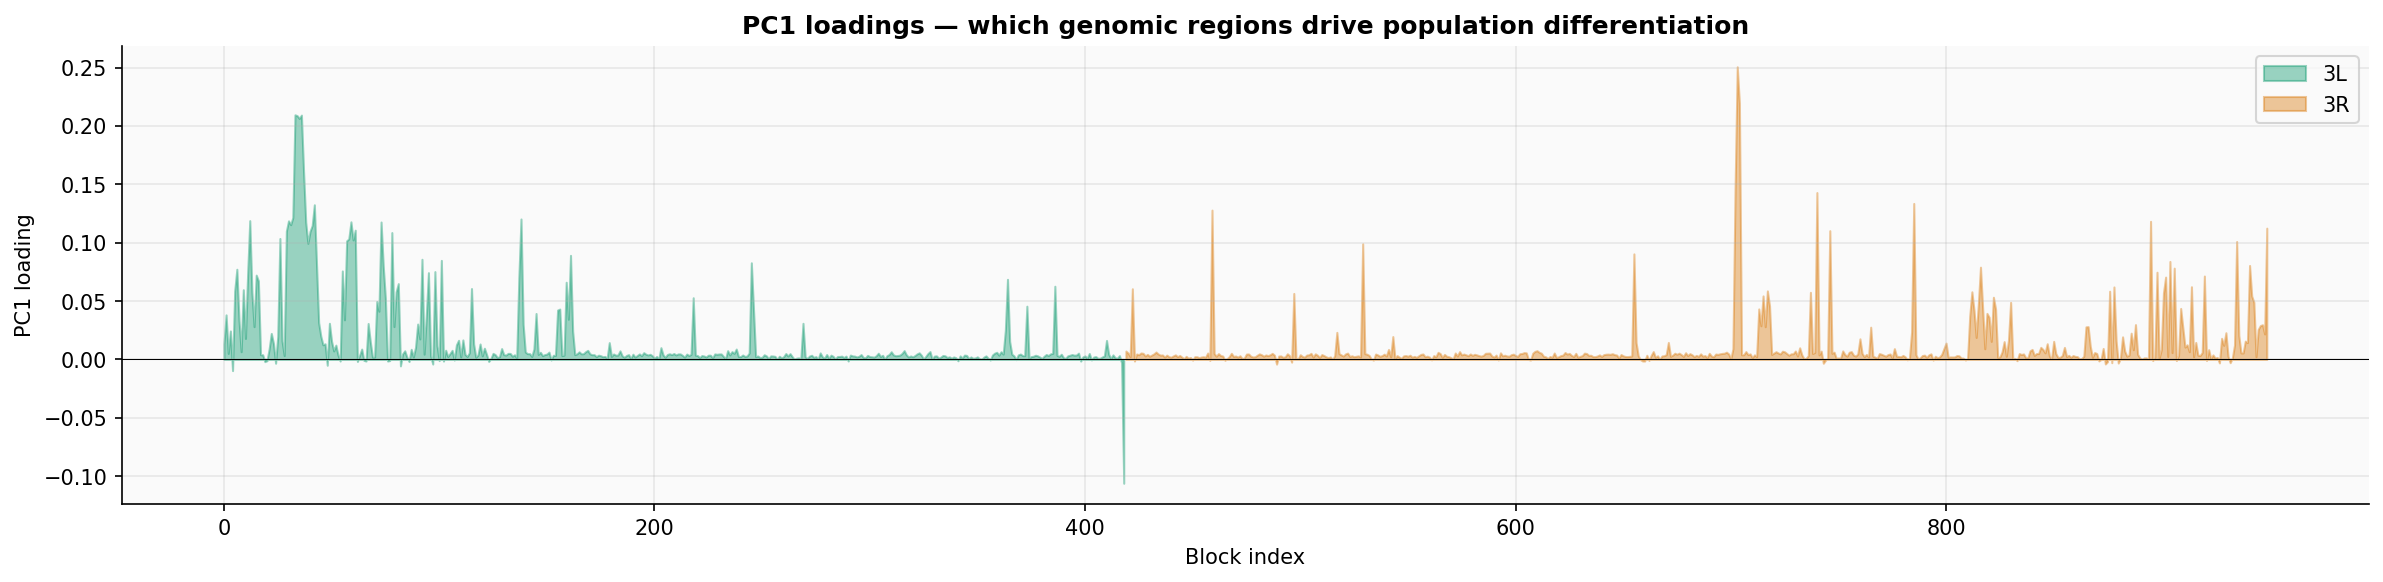
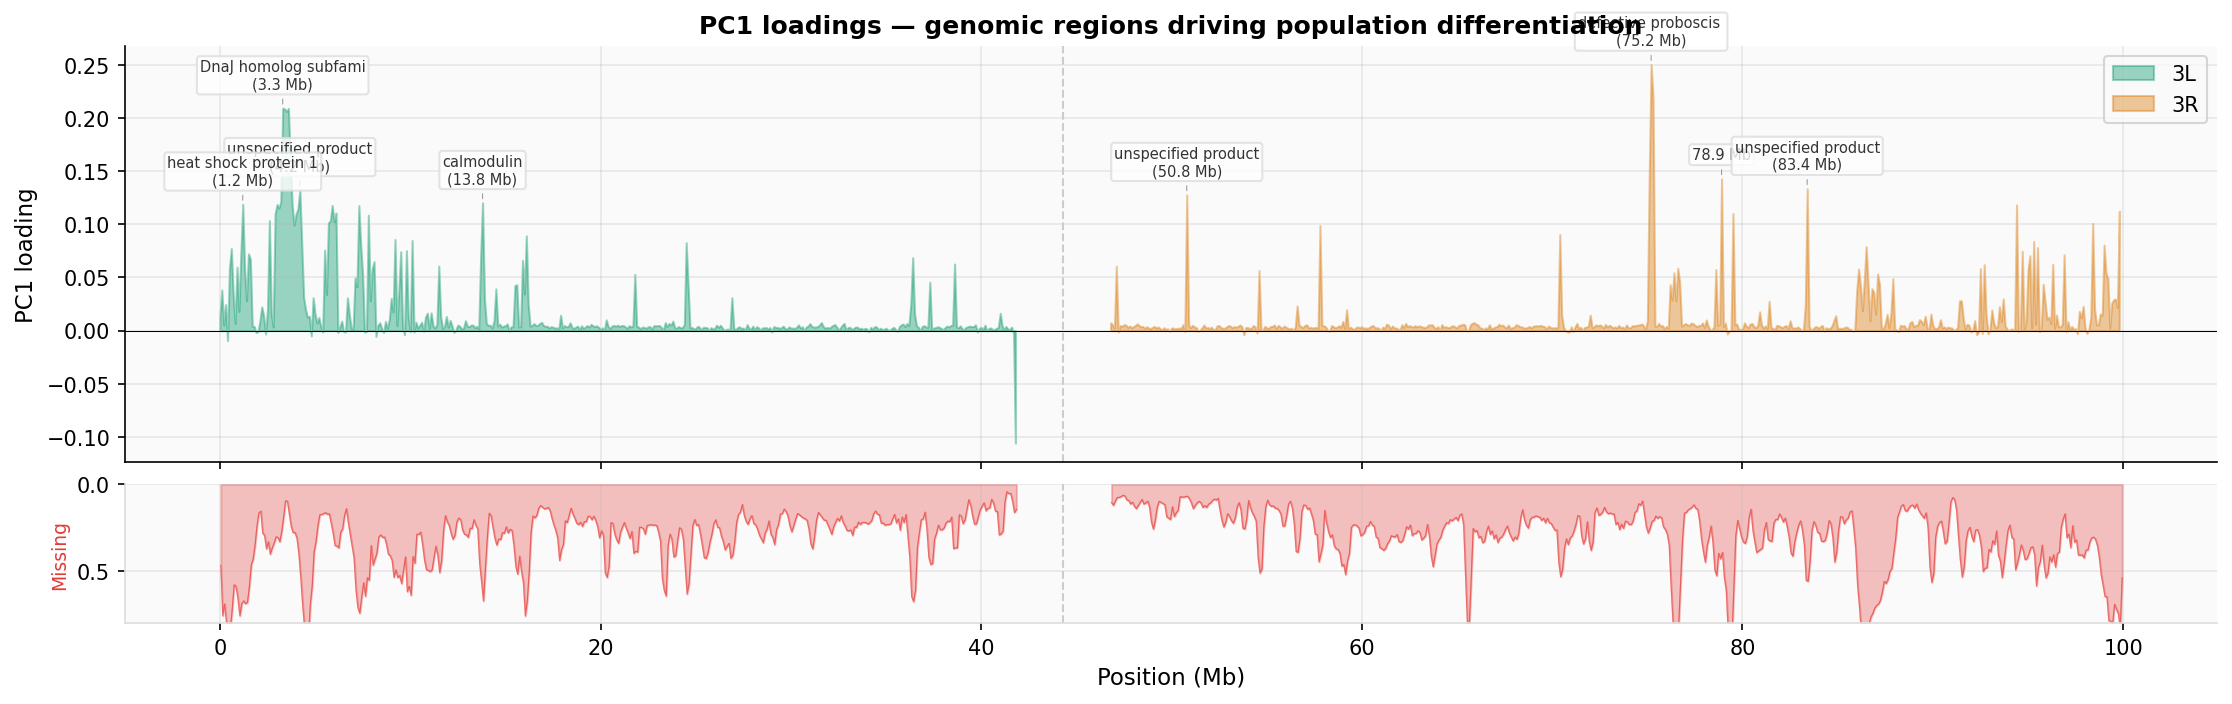
Add gene annotations and accessibility track to PC1 loadings figure

diff --git a/experiment_burkina_faso/figures/plot_highres_structure.py b/experiment_burkina_faso/figures/plot_highres_structure.py
@@ -140,20 +140,109 @@ def main():
     print("  Saved pca_highres.png")
 
     # =====================================================================
-    # Figure 2: PCA loadings — which genomic regions drive PC1?
+    # Figure 2: PCA loadings + accessibility + gene annotations
     # =====================================================================
-    fig, ax = plt.subplots(figsize=(16, 4))
-    loadings = pca.components_[0]  # PC1 loadings
-    n_3l = len(get_pop_median_profile(pops[0], "3L", "all")[0])
-    x = np.arange(len(loadings))
-    ax.fill_between(x[:n_3l], loadings[:n_3l], color="#059669", alpha=0.4, label="3L")
-    ax.fill_between(x[n_3l:], loadings[n_3l:], color="#d97706", alpha=0.4, label="3R")
-    ax.axhline(0, color="black", lw=0.5)
-    ax.set_xlabel("Block index")
-    ax.set_ylabel("PC1 loading")
-    ax.set_title("PC1 loadings — which genomic regions drive population differentiation",
-                 fontweight="bold")
-    ax.legend(fontsize=10)
+    loadings = pca.components_[0]
+    prof_3l, mids_3l = get_pop_median_profile(pops[0], "3L", "all")
+    prof_3r, mids_3r = get_pop_median_profile(pops[0], "3R", "all")
+    n_3l = len(prof_3l)
+
+    # Build x-axis in Mb: 3L positions then 3R positions offset by gap
+    gap = 5  # Mb visual gap between arms
+    x_3l = mids_3l
+    x_3r = mids_3r + mids_3l[-1] + gap
+
+    x_mb = np.concatenate([x_3l, x_3r])
+
+    fig, (ax_load, ax_acc) = plt.subplots(2, 1, figsize=(18, 5),
+        height_ratios=[3, 1], sharex=True, gridspec_kw={"hspace": 0.08})
+
+    # --- Top: loadings ---
+    ax_load.fill_between(x_mb[:n_3l], loadings[:n_3l], color="#059669", alpha=0.4, label="3L")
+    ax_load.fill_between(x_mb[n_3l:], loadings[n_3l:], color="#d97706", alpha=0.4, label="3R")
+    ax_load.axhline(0, color="black", lw=0.5)
+    ax_load.axvline(x_3l[-1] + gap/2, color="#ccc", lw=1, ls="--")
+
+    # Annotate top loading peaks with nearest genes
+    genes_data = None
+    genes_file = RESULTS_DIR / "genes.json"
+    if genes_file.exists():
+        genes_data = json.load(open(genes_file))
+
+    def find_gene_at(arm, pos_bp):
+        if genes_data is None or arm not in genes_data:
+            return None
+        best_dist, best = 50_000, None
+        for g in genes_data[arm]:
+            mid = (g["start"] + g["end"]) / 2
+            dist = abs(mid - pos_bp)
+            if dist < best_dist:
+                best_dist = dist
+                best = g
+        if best is None:
+            return None
+        return best.get("symbol") or best.get("description", "")[:20] or best.get("id", "")
+
+    # Find top 8 peaks by absolute loading
+    abs_loadings = np.abs(loadings)
+    # Exclude peaks within 5 blocks of each other
+    peak_indices = []
+    sorted_idx = np.argsort(-abs_loadings)
+    for idx in sorted_idx:
+        if len(peak_indices) >= 8:
+            break
+        if all(abs(idx - p) > 5 for p in peak_indices):
+            peak_indices.append(idx)
+
+    texts = []
+    for pi in peak_indices:
+        if pi < n_3l:
+            arm = "3L"
+            pos_bp = int(mids_3l[pi] * 1e6)
+        else:
+            arm = "3R"
+            pos_bp = int(mids_3r[pi - n_3l] * 1e6)
+
+        gene = find_gene_at(arm, pos_bp)
+        if gene:
+            label = f"{gene}\n({x_mb[pi]:.1f} Mb)"
+        else:
+            label = f"{x_mb[pi]:.1f} Mb"
+
+        t = ax_load.annotate(label, (x_mb[pi], loadings[pi]),
+                    fontsize=7, ha="center", va="bottom" if loadings[pi] > 0 else "top",
+                    xytext=(0, 8 if loadings[pi] > 0 else -8),
+                    textcoords="offset points", color="#333",
+                    arrowprops=dict(arrowstyle="-", color="#999", lw=0.5),
+                    bbox=dict(boxstyle="round,pad=0.2", fc="white", ec="#ddd", alpha=0.8))
+
+    ax_load.set_ylabel("PC1 loading", fontsize=11)
+    ax_load.set_title("PC1 loadings — genomic regions driving population differentiation",
+                      fontweight="bold", fontsize=12)
+    ax_load.legend(fontsize=10, loc="upper right")
+
+    # --- Bottom: accessibility/missingness track ---
+    acc_file = RESULTS_DIR / "accessibility_100kb.npz"
+    if acc_file.exists():
+        acc = np.load(acc_file)
+        for arm, x_offset, color in [("3L", 0, "#059669"), ("3R", mids_3l[-1] + gap, "#d97706")]:
+            frac = acc[f"{arm}_frac"]
+            amids = acc[f"{arm}_mids"]
+            missing = 1.0 - frac
+            kernel = 3
+            if len(missing) > kernel:
+                missing = np.convolve(missing, np.ones(kernel)/kernel, mode="same")
+            ax_acc.fill_between(amids + x_offset, 0, missing, color="#E53935", alpha=0.3)
+            ax_acc.plot(amids + x_offset, missing, color="#E53935", lw=0.6, alpha=0.6)
+
+    ax_acc.axvline(x_3l[-1] + gap/2, color="#ccc", lw=1, ls="--")
+    ax_acc.set_ylim(0, 0.8)
+    ax_acc.invert_yaxis()
+    ax_acc.set_ylabel("Missing", fontsize=9, color="#E53935")
+    ax_acc.set_xlabel("Position (Mb)", fontsize=11)
+    for spine in ax_acc.spines.values():
+        spine.set_color("#ddd")
+
     fig.tight_layout()
     fig.savefig(FIG_DIR / "pca_loadings.png", dpi=150, bbox_inches="tight")
     fig.savefig(FIG_DIR / "pca_loadings.pdf", bbox_inches="tight")